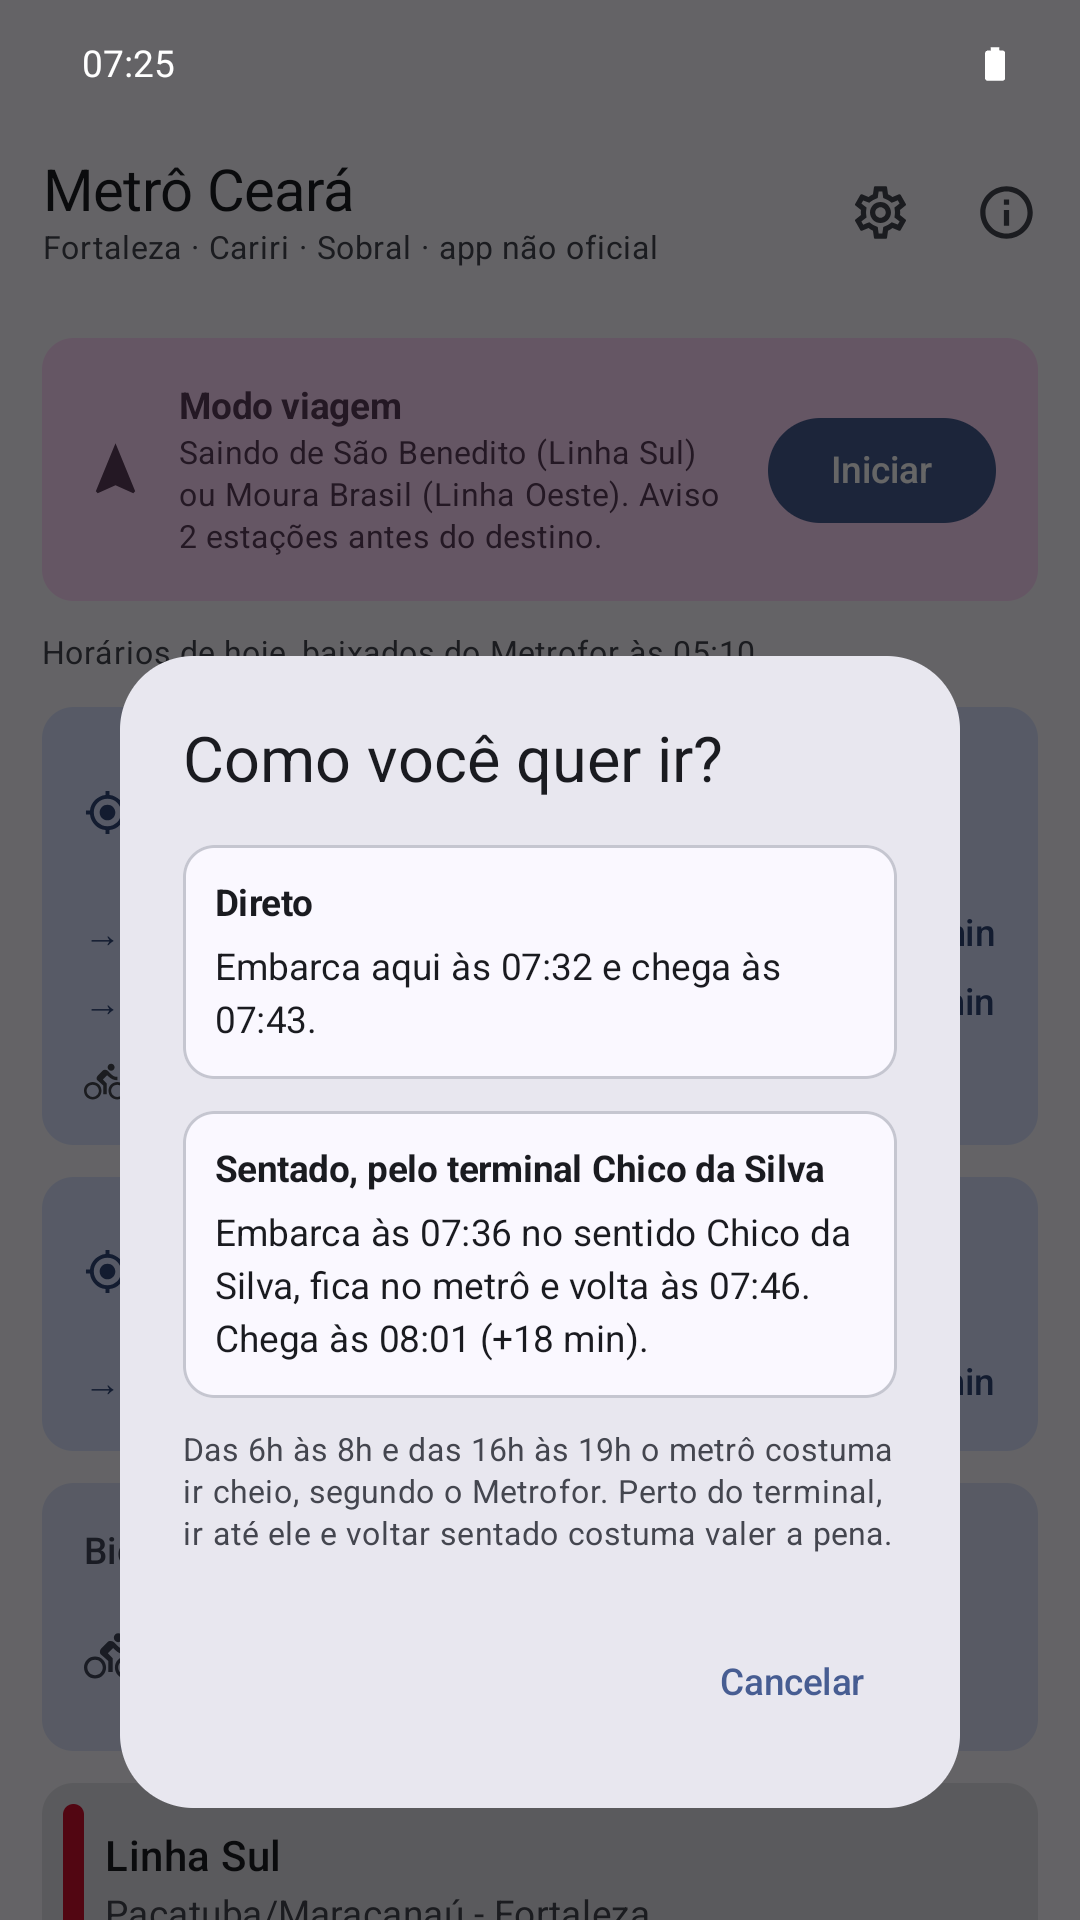
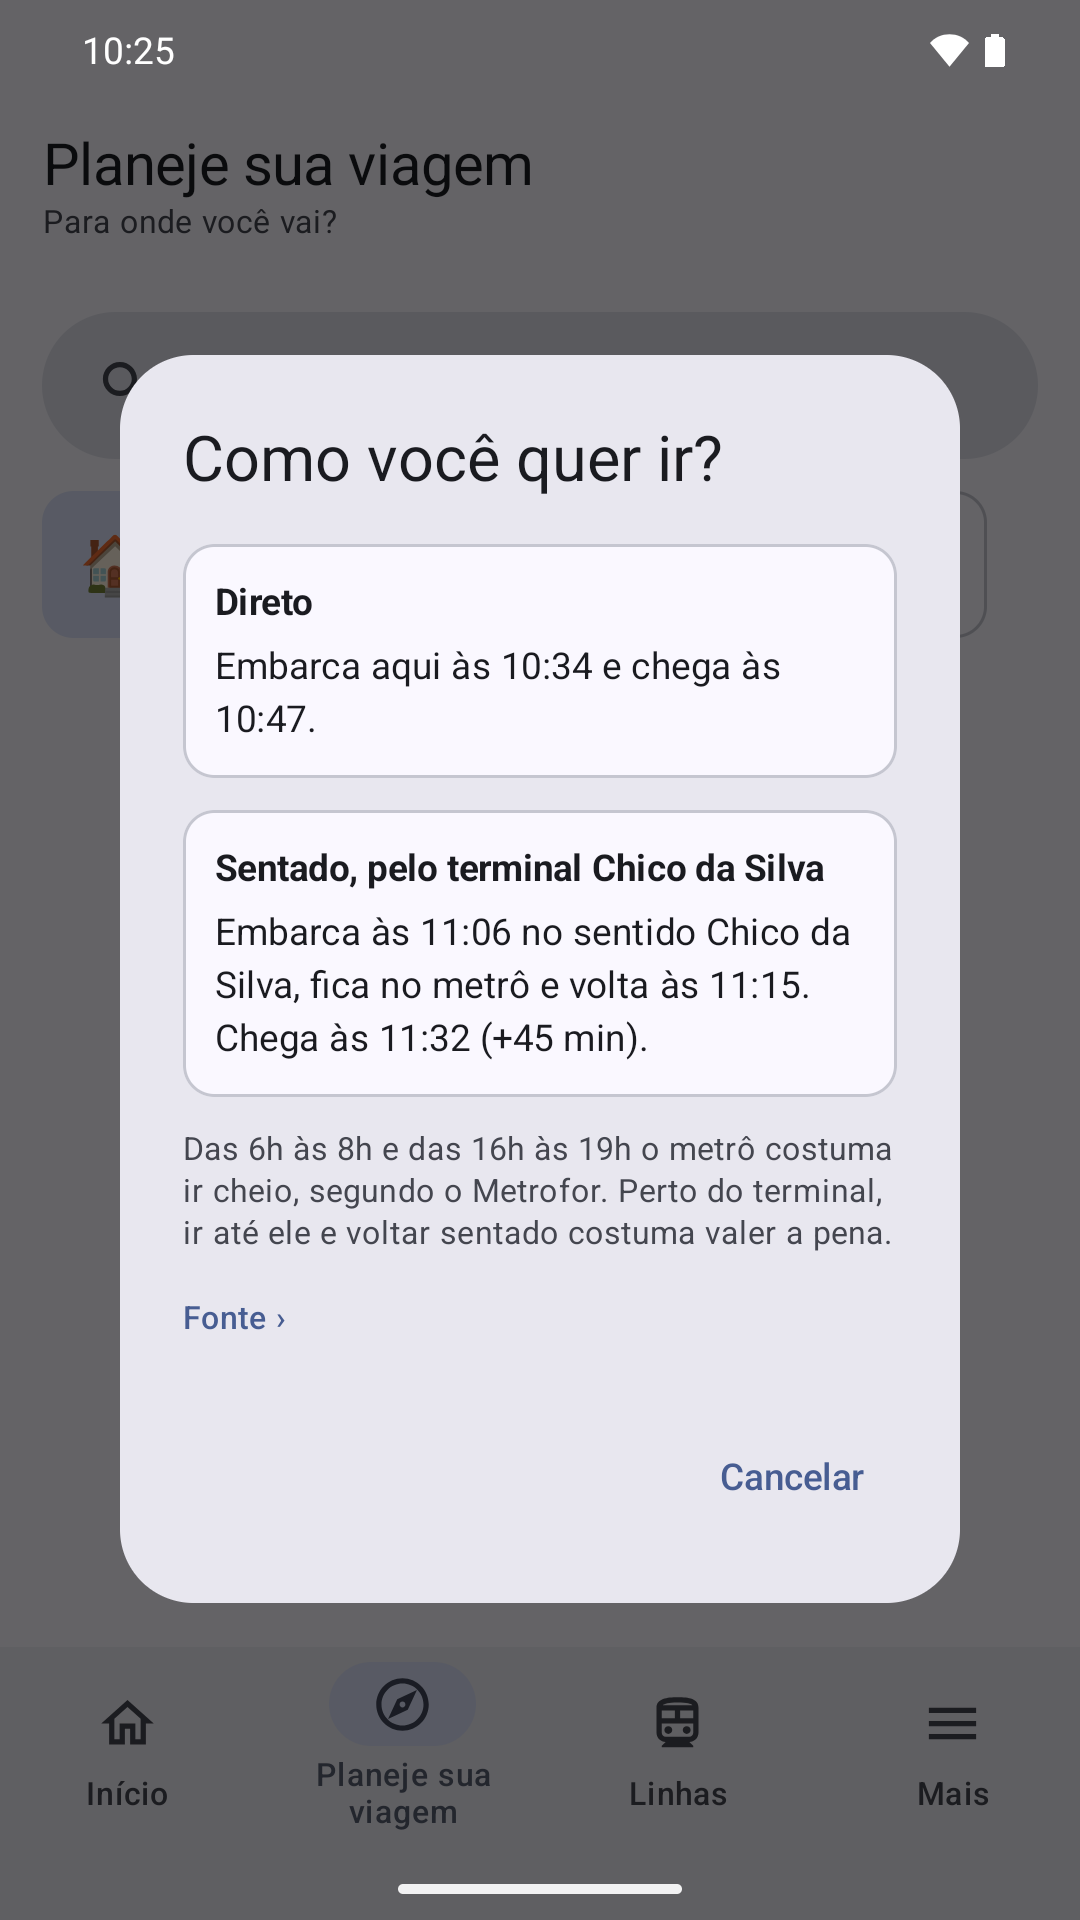
Capturas da loja e do site com a barra de baixo e os cartões
Refeitas a 1 (tela inicial), a 3 (aviso de descida), a 6 (viagem em
cartões) e a 7 (ir sentado), mais o gráfico de destaque da Play Store.
A 2, a 4 e a 5 (estação e widget) não mudaram.

diff --git a/docs/index.html b/docs/index.html
@@ -216,7 +216,7 @@
       <figure><img src="img/tela-4.jpg" alt="Widgets na tela inicial com os próximos horários da estação" loading="lazy"><figcaption>Widget na tela inicial</figcaption></figure>
       <figure><img src="img/tela-2.jpg" alt="Horários de uma estação, com a integração com a Linha Nordeste" loading="lazy"><figcaption>Todos os horários</figcaption></figure>
       <figure><img src="img/tela-3.jpg" alt="Modo viagem com o aviso de descida" loading="lazy"><figcaption>Aviso para descer</figcaption></figure>
-      <figure><img src="img/tela-6.jpg" alt="Roteiro de São Benedito a Papicu, com integração entre a Linha Sul e a Linha Nordeste" loading="lazy"><figcaption>Roteiro com integração</figcaption></figure>
+      <figure><img src="img/tela-6.jpg" alt="Viagem de São Benedito a Papicu: cada horário num cartão, com a duração, a integração em Parangaba e as linhas Sul e Nordeste" loading="lazy"><figcaption>Cada horário um cartão</figcaption></figure>
       <figure><img src="img/tela-5.jpg" alt="Horários de uma estação com o aviso da hora de sair marcado num toque, com o sininho" loading="lazy"><figcaption>Aviso da hora de sair</figcaption></figure>
       <figure><img src="img/tela-7.jpg" alt="Escolha entre ir direto ou sentado pelo terminal" loading="lazy"><figcaption>Ir sentado</figcaption></figure>
     </div>
